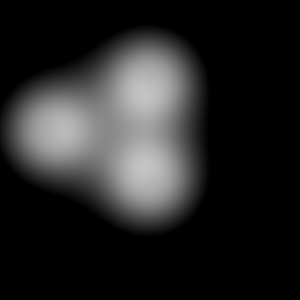
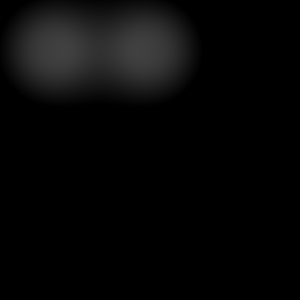
update metaball to main (not optimized)

diff --git a/Condensation/metaball/src/main.cpp b/Condensation/metaball/src/main.cpp
@@ -27,9 +27,9 @@ int main() {
     cv::Mat image = cv::Mat::zeros(IMAGE_HEIGHT, IMAGE_WIDTH, CV_8UC1);
     
     //// Add metaball
-    addMetaball(50.0f, 130.0f, &metaballs);
-    addMetaball(150.0f, 80.0f, &metaballs);
-    addMetaball(150.0f, 180.0f, &metaballs);
+    addMetaball(50.0f, 50.0f, &metaballs);
+    addMetaball(150.0f, 50.0f, &metaballs);
+    // addMetaball(75.0f, 100.0f, &metaballs);
 
 
     //// Loop all the pixels
@@ -59,7 +59,7 @@ int main() {
                 // sum += h * std::exp(-1 * 1/r*d*d);
 
                 //// paper meijo daigaku
-                sum += 1 / (1 + std::pow((d/R), 2.8));
+                sum += 1 / (1 + std::pow((d/R), 2.8));;
             }
             // sum -= h/2;
             sum -= 0.5;
@@ -72,7 +72,7 @@ int main() {
             // else sum = 0;   
             // if (sum < 20) sum = 0;
             // if(sum > 50)
-            if (sum >= 0)  sum =  sum * 255;
+            if(sum > 0) sum =  sum * 100;
             // if (sum > 255) sum = 255;
             image.at<unsigned char>(y, x) = sum;
             
